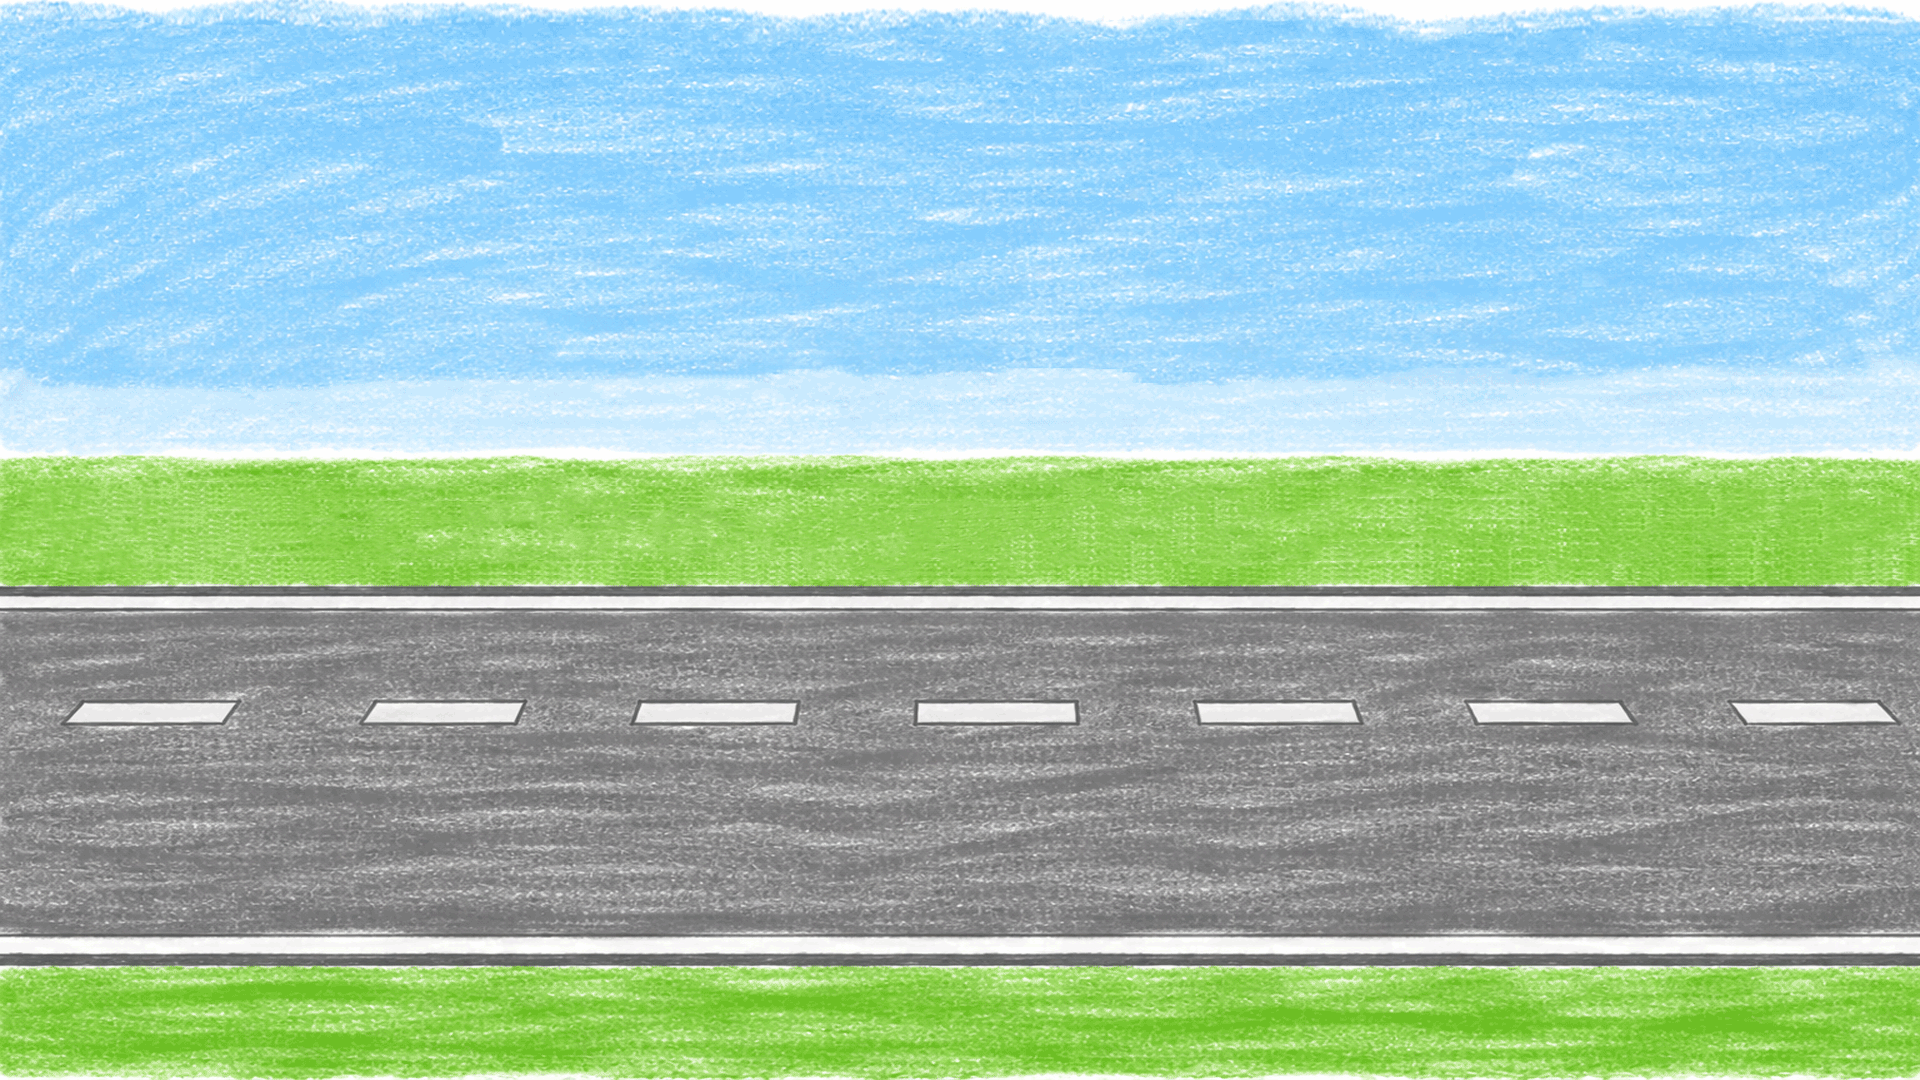
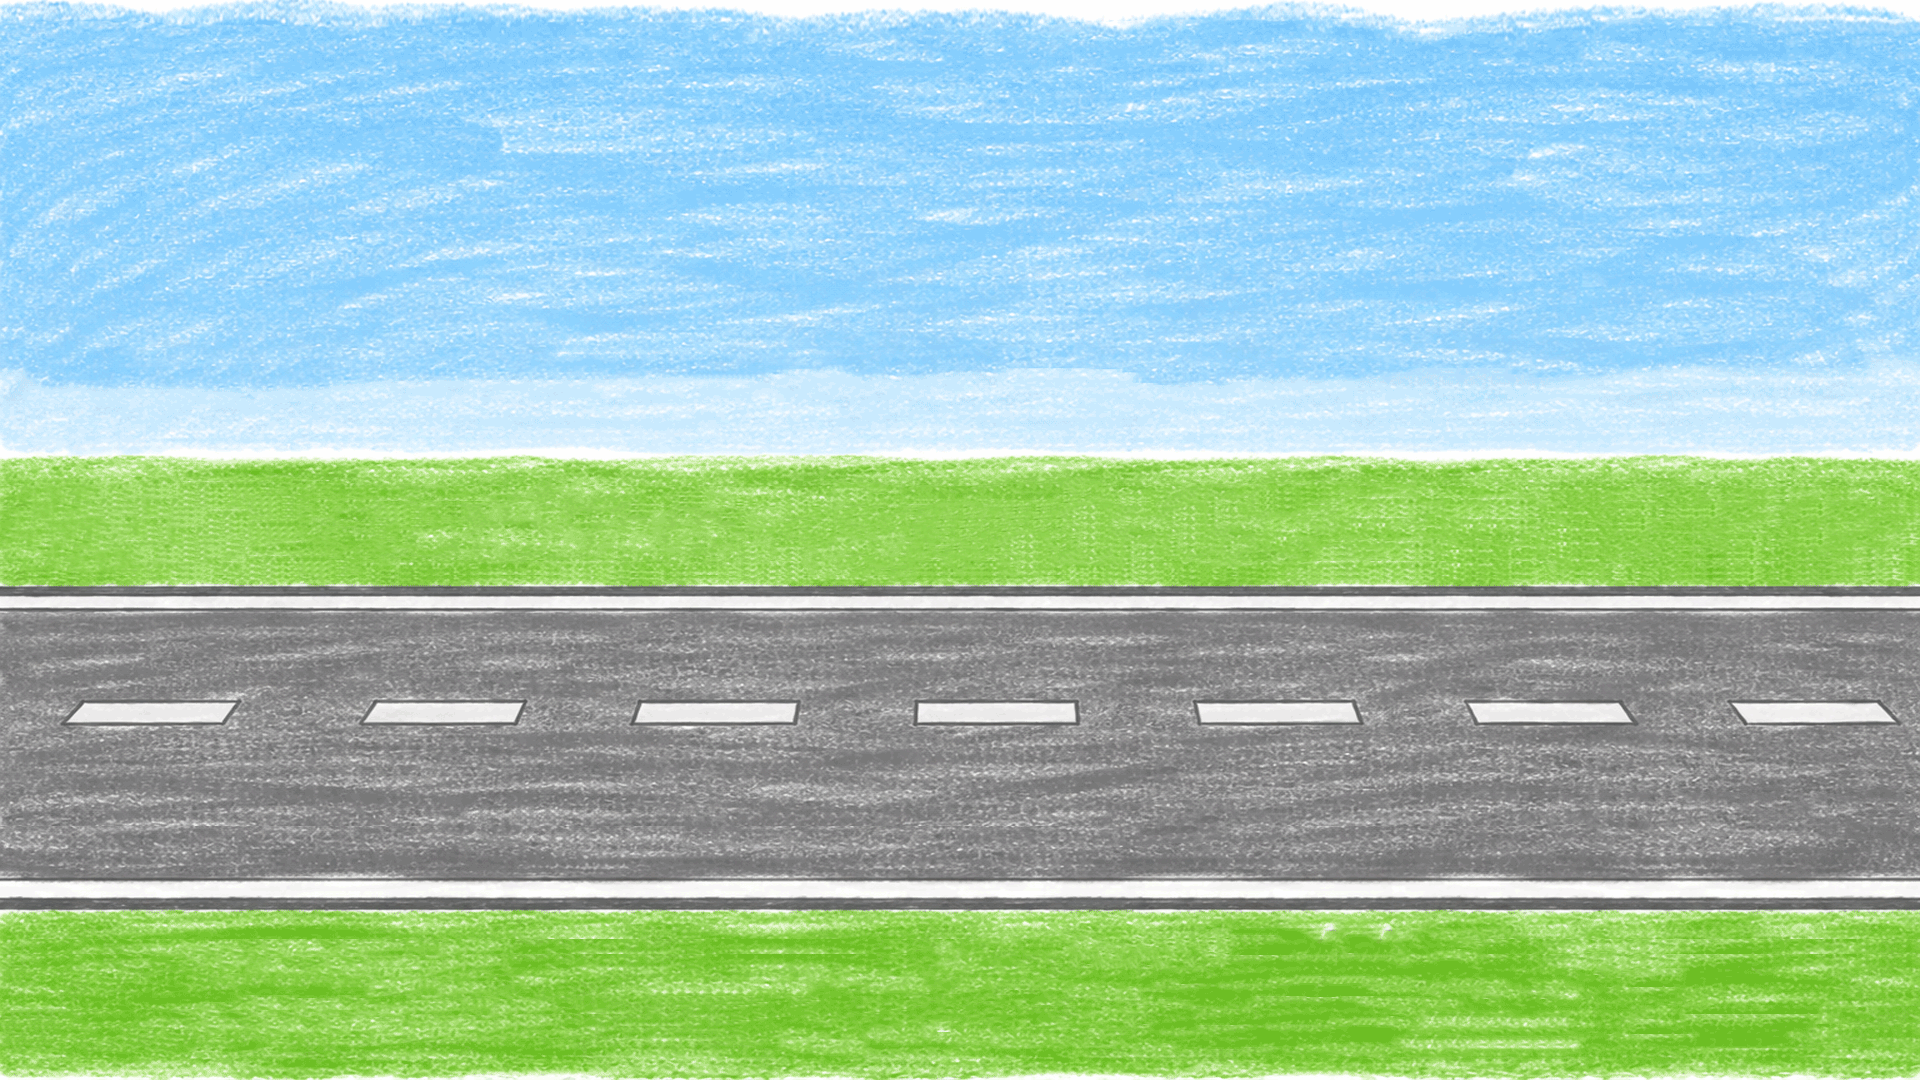
ui: update home background to full-screen composition
메인 화면 배경이 상단 안전영역까지 자연스럽게 채워지도록 레이아웃과 자산 구성을 정리합니다.
배경/타이틀 이미지 보정과 함께 버튼 영역의 SafeArea를 유지해 기기별 사용성을 보장하고 버전을 1.14.1+11401로 상향합니다.

Changed region(s): [[0.0, 0.7333, 1.0, 1.0]]

diff --git a/lib/feature/home/presentation/home_screen.dart b/lib/feature/home/presentation/home_screen.dart
@@ -133,73 +133,68 @@ class _HomeScreenState extends ConsumerState<HomeScreen>
   @override
   Widget build(BuildContext context) {
     return Scaffold(
-      body: SafeArea(
-        child: LayoutBuilder(
-          builder: (context, constraints) {
-            final gap = _responsiveGap(constraints.maxHeight);
-            final buttonHeight = _responsiveButtonHeight(constraints.maxHeight);
-            final buttonWidth = _responsiveButtonWidth(
-              constraints.maxWidth,
-              gap,
-            );
-            final buttonFont = _responsiveButtonFont(constraints.maxHeight);
-            final buttonIconSize = _responsiveIconSize(constraints.maxHeight);
-            final buttonYOffset = _responsiveButtonYOffset(
-              constraints.maxHeight,
-            );
+      body: LayoutBuilder(
+        builder: (context, constraints) {
+          final gap = _responsiveGap(constraints.maxHeight);
+          final buttonHeight = _responsiveButtonHeight(constraints.maxHeight);
+          final buttonWidth = _responsiveButtonWidth(constraints.maxWidth, gap);
+          final buttonFont = _responsiveButtonFont(constraints.maxHeight);
+          final buttonIconSize = _responsiveIconSize(constraints.maxHeight);
+          final buttonYOffset = _responsiveButtonYOffset(constraints.maxHeight);
 
-            return AnimatedBuilder(
-              animation: _controller,
-              builder: (context, child) {
-                return Stack(
-                  children: [
-                    Positioned.fill(
-                      child: Image.asset(
-                        'assets/backgrounds/main/bg_main_background.png',
-                        key: const Key('home-bg-base'),
-                        fit: BoxFit.cover,
-                      ),
+          return AnimatedBuilder(
+            animation: _controller,
+            builder: (context, child) {
+              return Stack(
+                children: [
+                  Positioned.fill(
+                    child: Image.asset(
+                      'assets/backgrounds/main/bg_main_background.png',
+                      key: const Key('home-bg-base'),
+                      fit: BoxFit.cover,
                     ),
-                    Positioned.fill(
-                      child: Opacity(
-                        opacity: _foregroundOpacity.value,
-                        child: Transform.translate(
-                          offset: Offset(0, _foregroundOffsetY.value),
-                          child: Image.asset(
-                            'assets/backgrounds/main/bg_main_foreground.png',
-                            key: const Key('home-bg-foreground'),
-                            fit: BoxFit.cover,
-                          ),
+                  ),
+                  Positioned.fill(
+                    child: Opacity(
+                      opacity: _foregroundOpacity.value,
+                      child: Transform.translate(
+                        offset: Offset(0, _foregroundOffsetY.value),
+                        child: Image.asset(
+                          'assets/backgrounds/main/bg_main_foreground.png',
+                          key: const Key('home-bg-foreground'),
+                          fit: BoxFit.cover,
                         ),
                       ),
                     ),
-                    Positioned.fill(
-                      child: Opacity(
-                        opacity: _carsOpacity.value,
-                        child: Transform.translate(
-                          offset: Offset(_carsOffsetX.value, 0),
-                          child: Image.asset(
-                            'assets/backgrounds/main/bg_main_cars.png',
-                            key: const Key('home-bg-cars'),
-                            fit: BoxFit.cover,
-                          ),
+                  ),
+                  Positioned.fill(
+                    child: Opacity(
+                      opacity: _carsOpacity.value,
+                      child: Transform.translate(
+                        offset: Offset(_carsOffsetX.value, 0),
+                        child: Image.asset(
+                          'assets/backgrounds/main/bg_main_cars.png',
+                          key: const Key('home-bg-cars'),
+                          fit: BoxFit.cover,
                         ),
                       ),
                     ),
-                    Positioned.fill(
-                      child: Opacity(
-                        opacity: _titleOpacity.value,
-                        child: Transform.scale(
-                          scale: _titleScale.value,
-                          child: Image.asset(
-                            'assets/backgrounds/main/bg_main_title.png',
-                            key: const Key('home-bg-title'),
-                            fit: BoxFit.cover,
-                          ),
+                  ),
+                  Positioned.fill(
+                    child: Opacity(
+                      opacity: _titleOpacity.value,
+                      child: Transform.scale(
+                        scale: _titleScale.value,
+                        child: Image.asset(
+                          'assets/backgrounds/main/bg_main_title.png',
+                          key: const Key('home-bg-title'),
+                          fit: BoxFit.cover,
                         ),
                       ),
                     ),
-                    Center(
+                  ),
+                  SafeArea(
+                    child: Center(
                       child: Transform.translate(
                         offset: Offset(0, buttonYOffset),
                         child: ConstrainedBox(
@@ -236,12 +231,12 @@ class _HomeScreenState extends ConsumerState<HomeScreen>
                         ),
                       ),
                     ),
-                  ],
-                );
-              },
-            );
-          },
-        ),
+                  ),
+                ],
+              );
+            },
+          );
+        },
       ),
     );
   }
@@ -334,10 +329,10 @@ class _HomeActionButton extends StatelessWidget {
     final isEnabled = onPressed != null;
     final isPrimary = !tonal;
     final borderRadius = BorderRadius.circular(30);
-    final buttonBackground = (isPrimary
-            ? AppPalette.primary
-            : const Color(0xFF53B4A0))
-        .withValues(alpha: 0.6);
+    final buttonBackground =
+        (isPrimary ? AppPalette.primary : const Color(0xFF53B4A0)).withValues(
+          alpha: 0.6,
+        );
     final buttonForeground = AppPalette.onPrimary;
     final disabledBackground = isPrimary
         ? const Color(0xFFC8CDD2)
@@ -382,9 +377,7 @@ class _HomeActionButton extends StatelessWidget {
                 label: label,
                 buttonFontSize: buttonFontSize,
                 iconSize: iconSize,
-                color: buttonForeground.withValues(
-                  alpha: isEnabled ? 1 : 0.55,
-                ),
+                color: buttonForeground.withValues(alpha: isEnabled ? 1 : 0.55),
               ),
             ),
           ),

diff --git a/docs/PROGRESS.md b/docs/PROGRESS.md
@@ -22,7 +22,6 @@
 - 없음
 
 **다음 예정 작업**
-- 홈 메인 배경 레이어 애니메이션(타이밍/가독성/터치 방해 여부) 실기기 QA
 - 실제 기기(저사양/고사양) 기준 BGM/SFX 볼륨 밸런싱 및 기기별 청감 점검
 - 실제 기기 샘플(회색/유색 용지) 기준 outline-guided threshold 미세 튜닝
 - 저장 전 화면과 실제 투명 결과 표시 흐름 정합화
@@ -32,6 +31,11 @@
 ## 📝 커밋 로그
 
 ### 2026-04-16
+
+#### ui: update home background to full-screen composition
+- 홈 메인 배경이 상단 안전영역까지 채워지도록 전체 레이어 레이아웃을 조정했습니다.
+- 메인 배경/타이틀 이미지 보정본을 함께 반영해 전체 모드에서 시각 정합성을 개선했습니다.
+- UI 미세 조정 기준으로 버전을 `1.14.1+11401`로 상향했습니다.
 
 #### ui: animate layered home background transitions
 - 홈 메인 화면에 배경 4레이어(기본/전경/차량/타이틀)를 적용하고 시간차 등장 애니메이션을 추가했습니다.
